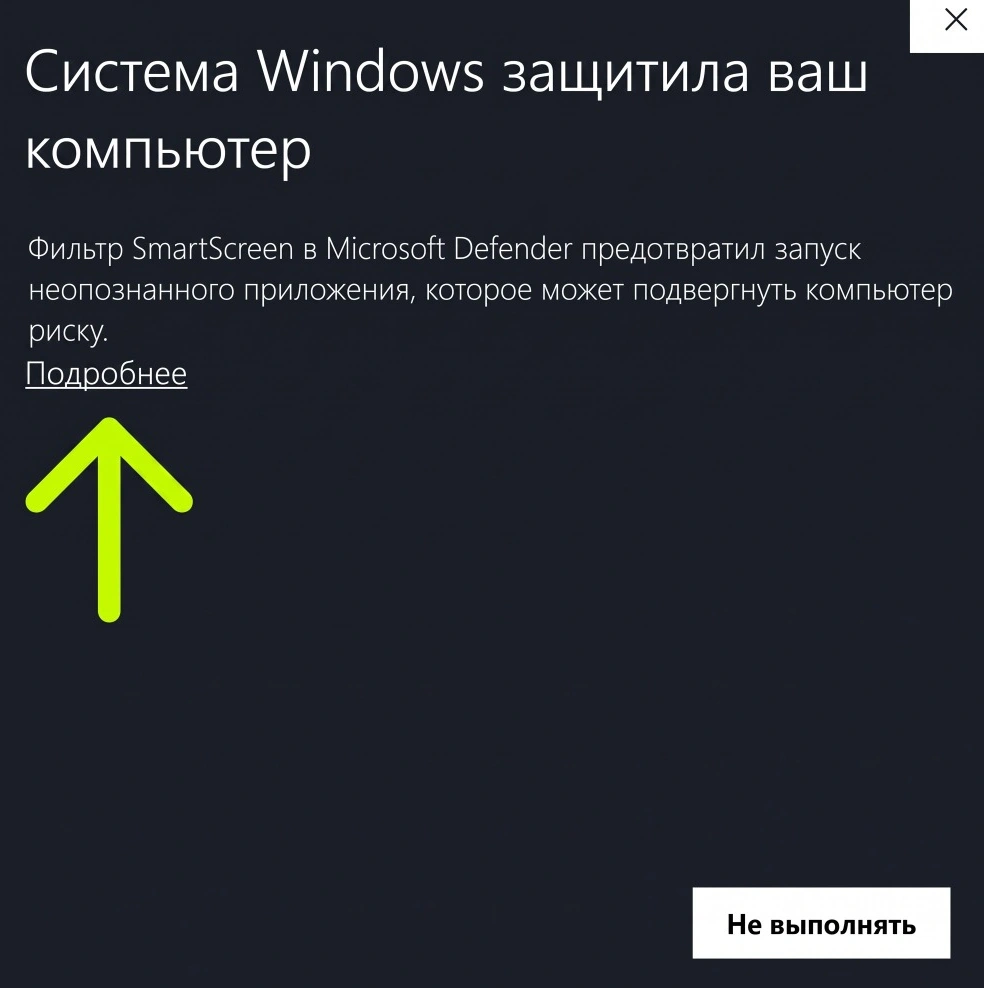
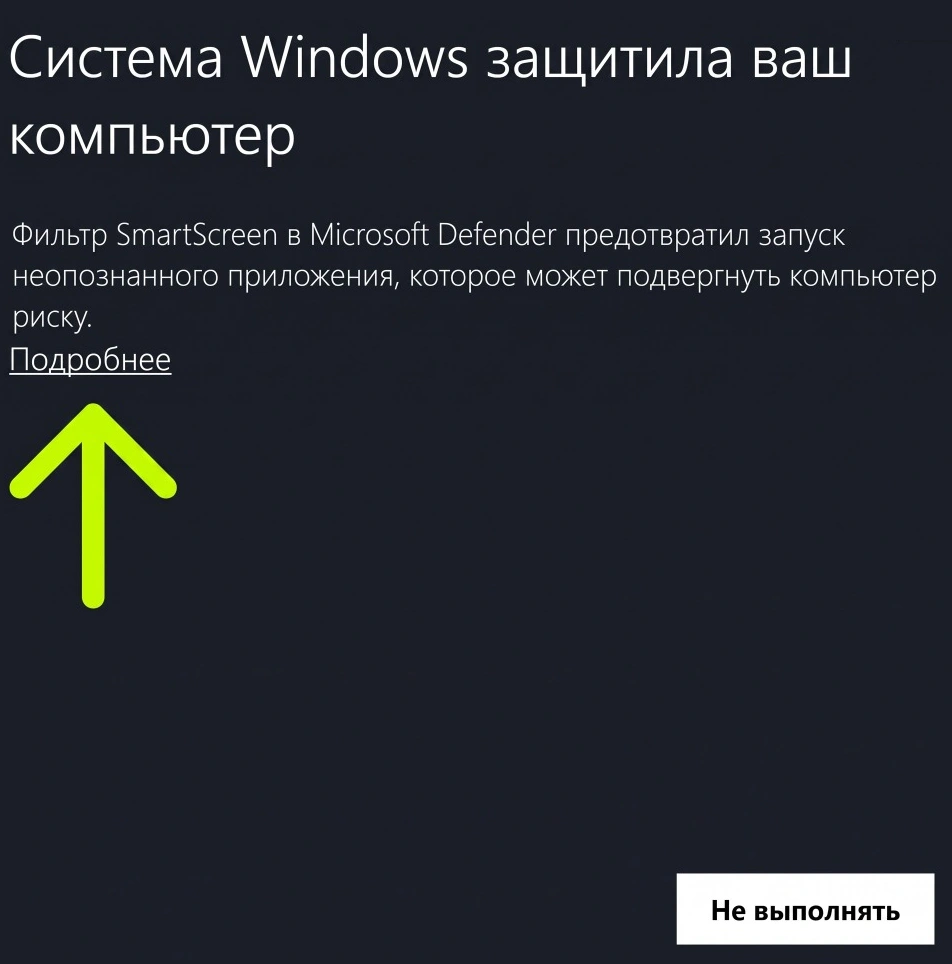
fix(guide): remove CSS image border and generously crop screenshot edges and top-right close button

diff --git a/src/components/SmartScreenGuide.tsx b/src/components/SmartScreenGuide.tsx
@@ -138,9 +138,9 @@ export default function SmartScreenGuide({ onDownload, status }: SmartScreenGuid
             <div className="relative group max-w-md w-full [transform-style:preserve-3d]">
               <div className="absolute -inset-1 bg-gradient-to-r from-[#38bdf8]/20 to-[#c0ff00]/20 rounded-2xl blur-xl opacity-20 group-hover:opacity-50 transition duration-500 pointer-events-none" />
               <img
-                src="/onelaunch-step1.webp"
+                src="/onelaunch-step1.webp?v=3"
                 alt="Окно SmartScreen - кликните Подробнее"
-                className="w-full h-auto rounded-2xl border border-white/10 shadow-[0_25px_50px_-12px_rgba(0,0,0,0.8)] transform-none md:[transform:perspective(1200px)_rotateX(8deg)_rotateY(-12deg)_rotateZ(-2deg)] md:hover:[transform:perspective(1200px)_rotateX(0deg)_rotateY(0deg)_rotateZ(0deg)] md:hover:scale-[1.03] transition-all duration-300 ease-out"
+                className="w-full h-auto rounded-2xl shadow-[0_25px_50px_-12px_rgba(0,0,0,0.8)] transform-none md:[transform:perspective(1200px)_rotateX(8deg)_rotateY(-12deg)_rotateZ(-2deg)] md:hover:[transform:perspective(1200px)_rotateX(0deg)_rotateY(0deg)_rotateZ(0deg)] md:hover:scale-[1.03] transition-all duration-300 ease-out"
                 loading="lazy"
               />
             </div>
@@ -178,9 +178,9 @@ export default function SmartScreenGuide({ onDownload, status }: SmartScreenGuid
             <div className="relative group max-w-md w-full [transform-style:preserve-3d]">
               <div className="absolute -inset-1 bg-gradient-to-r from-[#c0ff00]/20 to-[#38bdf8]/20 rounded-2xl blur-xl opacity-20 group-hover:opacity-50 transition duration-500 pointer-events-none" />
               <img
-                src="/onelaunch-step2.webp"
+                src="/onelaunch-step2.webp?v=3"
                 alt="Окно SmartScreen - Выполнить в любом случае"
-                className="w-full h-auto rounded-2xl border border-white/10 shadow-[0_25px_50px_-12px_rgba(0,0,0,0.8)] transform-none md:[transform:perspective(1200px)_rotateX(8deg)_rotateY(-12deg)_rotateZ(-2deg)] md:hover:[transform:perspective(1200px)_rotateX(0deg)_rotateY(0deg)_rotateZ(0deg)] md:hover:scale-[1.03] transition-all duration-300 ease-out"
+                className="w-full h-auto rounded-2xl shadow-[0_25px_50px_-12px_rgba(0,0,0,0.8)] transform-none md:[transform:perspective(1200px)_rotateX(8deg)_rotateY(-12deg)_rotateZ(-2deg)] md:hover:[transform:perspective(1200px)_rotateX(0deg)_rotateY(0deg)_rotateZ(0deg)] md:hover:scale-[1.03] transition-all duration-300 ease-out"
                 loading="lazy"
               />
             </div>
